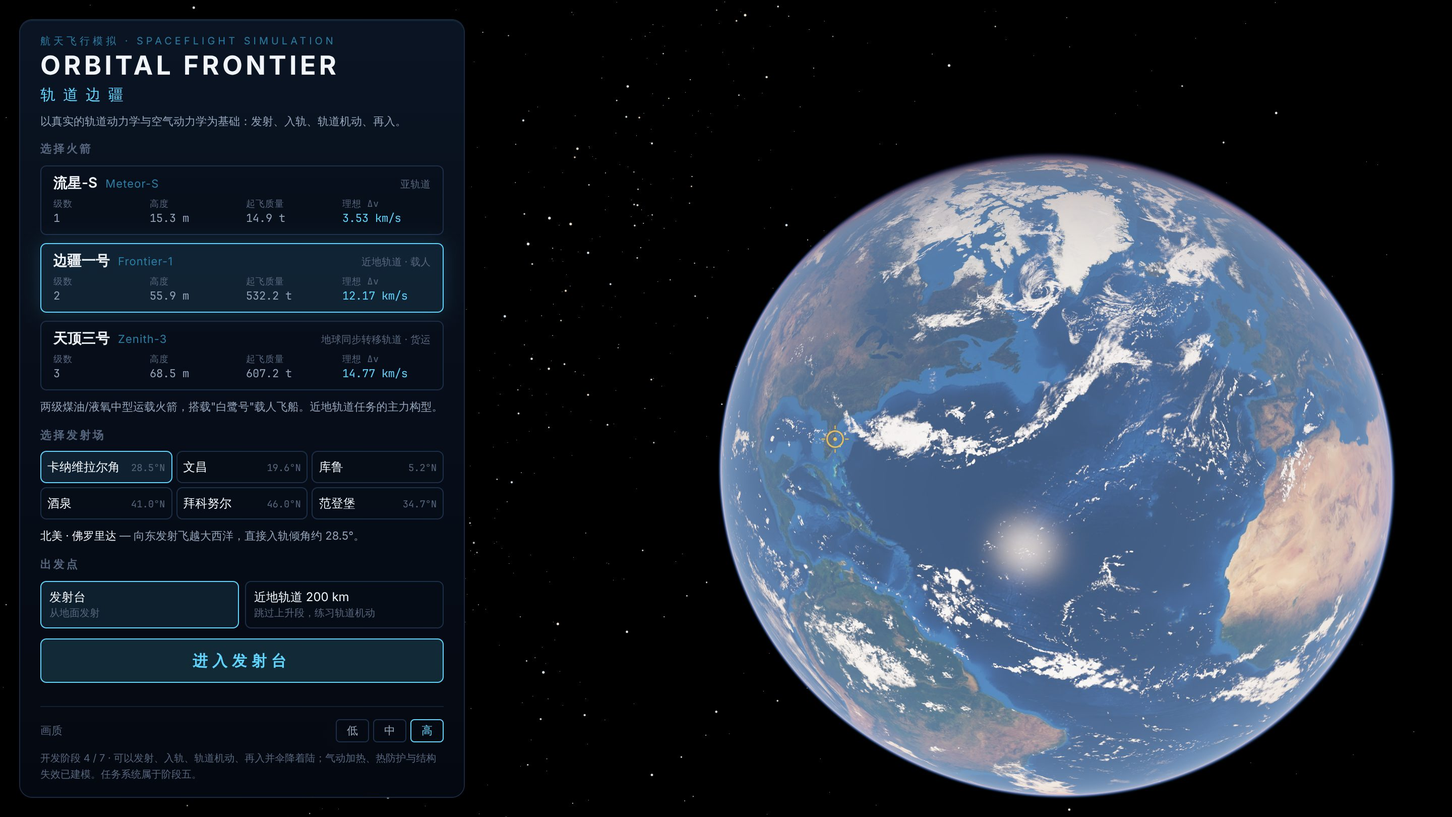
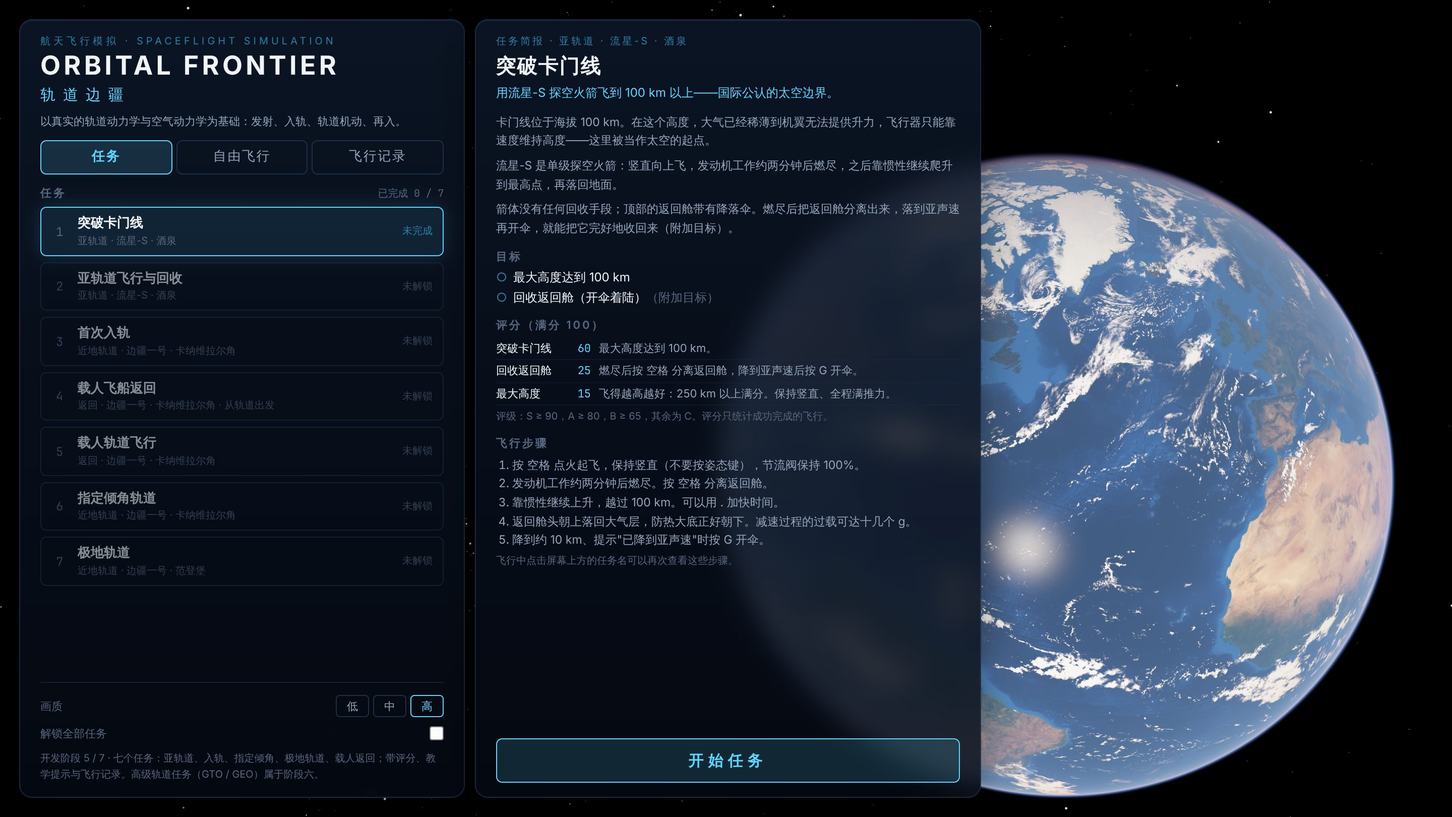
docs: 阶段五文档与配图更新
- README：当前状态、任务系统、主菜单三个页签、配图（任务菜单、任务飞行、任务结果）。
- PHYSICS：17.1 发射方位角与倾角；22.5 七个任务的实测飞行数据。
- TESTING：实测结果（569 项单元测试、26 项端到端测试）、任务系统的测试覆盖、
  已知限制（任务未经真人试玩、入轨与返回类任务没有浏览器端到端测试）。
- ARCHITECTURE：协议表补充 jettisonHeatShield / setBankAngle / 配平再入。

Claude-Session: https://claude.ai/code/session_013f3yviagcHA6DjqTKw1WnN

diff --git a/TESTING.md b/TESTING.md
@@ -22,15 +22,15 @@ npm run check
 
 单元测试与被测模块放在一起（`src/**/*.test.ts`）；端到端测试在 `tests/e2e/`。
 
-## 2. 最近一次实测结果（阶段四完成时）
+## 2. 最近一次实测结果（阶段五完成时）
 
 | 检查 | 结果 |
 | --- | --- |
 | `tsc -b`（strict、`noUncheckedIndexedAccess`） | 通过，0 错误 |
 | ESLint | 通过，0 错误 0 警告 |
-| 单元测试 | **451 项全部通过**（24 个文件，约 20 秒） |
-| 端到端测试 | **21 项全部通过**（Chromium，SwiftShader 软件渲染，约 9 分钟） |
-| 生产构建 | 成功；应用代码 190 kB、React 209 kB、Three + R3F 951 kB、物理 Worker 41 kB（未压缩）；gzip 后合计约 400 kB，另加地球贴图约 3.9 MB |
+| 单元测试 | **569 项全部通过**（31 个文件，约 15–20 秒） |
+| 端到端测试 | **26 项全部通过**（Chromium，SwiftShader 软件渲染，约 13 分钟） |
+| 生产构建 | 成功；应用代码 255 kB、React 209 kB、Three + R3F 951 kB、物理 Worker 44 kB（未压缩）；gzip 后合计约 420 kB，另加地球贴图约 3.9 MB |
 
 测试环境：Linux 容器，4 核 CPU，无 GPU，Node 22，Chromium（Playwright 1.63）。
 
@@ -45,6 +45,8 @@ npm run check
 | `physics/gravity/pointMass.test.ts` | 不同高度的引力加速度；平方反比；GEO 半径处的圆轨道周期等于恒星日 |
 | `physics/ephemeris/ephemeris.test.ts` | 儒略日；GMST 参考值；二分二至点的太阳赤纬；地方正午太阳位于当地子午面（端到端） |
 | `physics/atmosphere/standardAtmosphere.test.ts` | **与 USSA76 表列值对比**（1–80 km 共 11 个高度，T、p、ρ 偏差 < 0.02%）；海平面值；等温层；层间连续；理想气体方程；86 km 处解析段与表列段连续；100/200/400/1000 km 节点；对数线性插值；单调性；上界以上为真空；负高度与 NaN 输入 |
+| `physics/aerodynamics/trim.test.ts` | **配平迎角**：牛顿流球冠合力方向的解析式与对球冠表面的数值积分一致；零迎角合力沿轴线、随迎角单调；大底越平合力越贴近轴线；**阿波罗量级的质心偏移给出约 20° 的配平迎角与约 0.35 的升阻比**；解满足力矩平衡；质心在轴线上时为 0；超出适用范围时取上限 |
+| `physics/orbital/launch.test.ts` | **发射方位角**：向正东发射得到最小倾角（等于纬度）；低于纬度的倾角无法直接到达；向北 / 向南两个方位角对称且代回去得到同样的倾角；卡纳维拉尔角 → 51.6° 惯性方位约 45°、相对地面约 43°；范登堡 → 极地轨道要偏西约 3° |
 | `physics/aerodynamics/drag.test.ts` | 马赫数修正曲线（跨声速峰、连续性、端点）；零迎角 = C_d·A；横流阻力；随迎角单调；动压。**升力**：零迎角/横向/尾部朝前时为零；细长体升力随迎角先增后减；**返回舱大底朝前 20° 迎角时升阻比 0.25–0.36**；阻力与升力是轴向力、法向力的投影（D² + L² = F_A² + F_N²） |
 | `physics/thermodynamics/thermodynamics.test.ts`（30 项） | **Sutton–Graves 与手算一致**、标度关系（v³、√ρ、1/√R_n）；近地轨道再入峰值热流量级；**稀薄流上限**（任何高度不超过 ½ρv³，200 km 轨道约 60 W/m²）、两条曲线在 100–125 km 交接；热壁修正（冷壁≈1、总温时为 0、更热为负）；辐射；热流在三个热区的分配（连续、单调）；集总热容模型：初始升温速率、趋于辐射平衡、**能量守恒（相对误差 < 10⁻⁹，含烧蚀）**、向内传导与回温、气流冷却、表面超限/结构热透/烧穿三种失效、烧蚀速率 = 净热流/有效烧蚀热、**对步长不敏感且大步长下稳定**；热裕度 |
 | `physics/integration/rk4.test.ts` | 匀加速、时变加速度、线性阻力、简谐振动的解析解；圆轨道速度与周期；**0.02 s 步长下近地轨道一圈的能量与角动量漂移 < 10⁻¹¹**；GTO 大椭圆轨道；**四阶收敛**（步长减半误差缩小约 16 倍）；10 圈长期稳定性 |
@@ -62,6 +64,7 @@ npm run check
 | `simulation/startConditions.test.ts` | 从近地轨道开始：哪些火箭可用；六个发射场的初始轨道（圆轨道、倾角 = 纬度）；位于发射场正上方；姿态；剩余推进剂与 Δv 预算一致；滑行一圈后仍在轨 |
 | `simulation/flight.test.ts` | 见下表 |
 | `simulation/reentry.test.ts`（39 项） | 见下表 |
+| `simulation/returnAids.test.ts`（25 项） | **配平再入**：配平迎角由质心偏移决定（白鹭号约 20°，流星-S 的返回舱为 0）；目录数据在模型适用范围内；头部方向的几何（偏离来流恰好一个配平迎角，倾侧 0 / ±90° / 180°）；带着推进级时不可用；**再入全程迎角保持在 180° − 配平迎角（偏差 < 0.3°）、升阻比 0.29–0.33、升力向上**；滚转键改变倾侧角而不打断配平、俯仰键才是手动接管；倾侧角指令限速并走最短路径；开伞后退出。**升力改变结果**：过载 8 g → 3 g 以下、多飞 1000 km 以上；5°、6° 的再入角弹道式解体而配平再入可以承受；升力向下过载解体；倾侧 60° 介于两者之间；左右倾侧使落点对称地横向偏移；各部位热裕度 > 0.45；高于圆轨道速度时升力向上跳出；**轨迹预测与实际航程相差 < 3%**。**抛大底**：发射台上、带着推进级时不能抛；质量、质心、动量守恒、分离体；底部热区换成舱底结构；着陆速度按 √(质量比) 降低；再入前抛掉则舱底烧毁 |
 
 `flight.test.ts`（63 项）按主题：
 
@@ -84,7 +87,7 @@ npm run check
 
 | 主题 | 验证内容 |
 | --- | --- |
-| 升力 | 零迎角无升力；舱顶向天/向地偏 20° 时升阻比约 0.3、方向相反；阻力与公式一致；**升力向上的再入过载从约 9.5 g 降到约 5 g、飞得更远**；升力向下则侧壁过热 |
+| 升力 | 零迎角无升力；舱顶向天/向地偏 20° 时升阻比约 0.3、方向相反；阻力与公式一致；**升力向上的再入过载从约 9.5 g 降到约 5 g、飞得更远**；升力向下则过载解体 |
 | 合理的再入可以返回 | **近地轨道弹道再入安全着陆**（过载 7–10 g、峰值热流 0.35–0.75 MW/m²、烧蚀层剩余 60–95%、落地 5–10 m/s）；流星-S 亚轨道返回；**从 200 km 轨道离轨 → 分离二级 → 逆行 → 开伞的完整流程** |
 | 速度、角度、热防护参数 | 再入角 0.8°–4° 的单调关系（越浅峰值越低、总热量越大）；6° 过载解体；**高于圆轨道速度时跳出**；离轨不足时落点偏远、受热更久；速度 7.8/9.0/10.3 km/s 时热流与烧蚀消耗递增；**11 km/s 烧穿**；烧蚀层 0.4/4/12 kg/m² 的不同结果；曲率半径减到 1/4 热流翻倍；亚轨道级别的防热层承受不了轨道速度 |
 | 热防护不足 | 舱顶朝前、侧向、不分离二级、卫星——各自在哪个热区、什么高度失效；空中解体后状态冻结在解体位置 |
@@ -100,6 +103,18 @@ npm run check
 - `handFlownPilot.ts`：模拟照着提示操作的玩家——每 0.1 s 读一次界面遥测，只按住/松开按键、切换顺行保持、
   每隔几秒把俯仰角改动一个台阶。用来验证"粗糙的手动操作足以入轨"（结果见 PHYSICS.md 22.2）。
 
+### 任务系统
+
+| 文件 | 验证内容 |
+| --- | --- |
+| `missions/missions.test.ts`（34 项） | **判定**：最大高度取累计统计量（采样错过最高点也算数）；附加目标不影响成败、任务等所有目标有结论才结束；入轨要求关机后连续 10 s 满足（点火中不算、重新点火或轨道变化则清零、1000× 下采样间隔很大照样确认）；着陆的必须是已分离的返回舱；烧蚀层最小余量（抛大底后不再更新）；先入轨后返回的组合任务；推进剂耗尽的提前判定；有结论后不再变化、无变化时返回同一对象。**评分**：线性换算的两个方向与边界；评级分数线；各项得分与总分；失败为 0 分 F。**进度**：解锁链、最好成绩、次数、下一个任务。**日志**：条目内容、同一次飞行覆盖、上限。**存档校验**：坏数据被丢弃或回到默认值。**发射引导**：八个方向的按键、左右转向、各任务的引导。**目录自洽**：标识唯一、评分项满分之和为 100、解锁关系无环且可以从头走到尾、目标倾角从发射场可达 |
+| `missions/missionFlights.test.ts`（18 项） | **七个任务都由测试驾驶员飞到有结论**（数据流与运行时相同：物理步 → 快照 → 10 Hz 遥测 → 判定 → 评分），成功与失败路径都有：卡门线（满分 / 不回收 75 分 / 中途关机失败）；亚轨道（300 m/s 时倾斜 10°、15° 成功，竖直也能完成但航程 0 分，倾斜过头到不了 120 km，刚起飞就倾斜 5° 动压解体）；首次入轨（粗糙飞行 A、收节流 S、提前关机失败）；指定倾角与极地轨道（带航向修正成功，不修正分别停在约 47° 与 84°）；载人返回（配平再入 + 抛大底 S、弹道式 B、不分离推进级烧毁）；载人轨道飞行（完整流程；只入轨不返回则任务不结束） |
+| `telemetry/flightRecorder.test.ts` | 飞行记录仪：采样间隔、无效数据被拒绝、记满后隔一个丢一个且间隔加倍、几小时的飞行也被完整覆盖、事件上限、由遥测取样 |
+| `components/hud/missionHints.test.ts`（14 项） | **沿着每类任务的飞行，玩家依次看到的提示**：卡门线（保持竖直、不出现"向东倾斜"与"到远地点点火"）；亚轨道（先等到 300 m/s、再提示倾斜角度、分离后提示逆行保持）；首次入轨（近地点过 140 km 但不到 150 km 时不说"可以关机"、轨道确认中）；指定倾角 / 极地轨道（起飞方向的按键、倾角修正的按键）；轨道不合要求时分别说明近地点、远地点、倾角；返回（逆行保持 → 点火 → 关机分离 → 再入 → 开伞 → 抛大底）。任务界面的文字：目标进度、指标数值、日志显示 |
+
+测试驾驶员（`simulation/testing/`）新增：`HandFlownPilot` 支持八个键盘方向的起飞倾斜与飞行中的倾角修正；
+`SuborbitalPilot`（亚轨道）；`ReturnPilot`（离轨 → 分离 → 配平或逆行 → 开伞 → 抛大底）。它们只读界面遥测、只做键盘能做的操作。
+
 ### 渲染与界面
 
 | 文件 | 验证内容 |
@@ -107,7 +122,7 @@ npm run check
 | `rendering/core/rendering.test.ts` | ECI → 渲染空间映射；相机相对坐标精度；视觉大气模型；相机位姿与过渡；**轨道地图取景**（北侧俯视、距离随远地点变化并有上下限、退化输入）；**地球遮挡判断**（背面、地平线附近、地面上的点） |
 | `rendering/rockets/rocketLayout.test.ts` | 模型尺寸与物理定义一致；每级喷管与尾焰出口数量；级间段归属；整流罩半罩互补；喷管排布不重叠 |
 | `rendering/effects/reentryVisuals.test.ts` | 再入辉光强度由热流决定（低于起始值为零、单调、饱和）；**不是"只看高度"**（60 km 处亚声速无辉光、6.5 km/s 才有；200 km 轨道速度也没有）；颜色连续；高温表面自发光随温度变化；伞衣半径由阻力面积反算 |
-| `components/hud/flightHints.test.ts` | 操作提示：发射台上的各种情形；**沿一次手动入轨飞行，各阶段的提示按正确顺序出现**且没有误报的警告；从轨道出发；亚轨道滑行；**返回全程（离轨 → 分离 → 调整姿态 → 再入 → 开伞 → 着陆）的提示顺序**；超声速时不提示开伞；带迎角穿过大动压区时先警告再折断 |
+| `components/hud/flightHints.test.ts` | 操作提示：发射台上的各种情形；**沿一次手动入轨飞行，各阶段的提示按正确顺序出现**且没有误报的警告；从轨道出发；亚轨道滑行；**返回全程（离轨 → 分离 → 调整姿态 → 再入 → 开伞 → 着陆）的提示顺序**；配平再入与抛大底的提示；再入前抛掉大底的警告；超声速时不提示开伞；等待开伞阶段；无动力返回舱沿弹道上升时提示最高点而不是点火；带迎角穿过大动压区时先警告再折断 |
 | `components/hud/thermalLabels.test.ts` | 热区名称；风险等级；**每一种损毁原因的说明文字**（撞击时指出超出的接地容限与降落伞状态；热失效给出高度、速度、部位、材料；结构失效给出限值） |
 | `game/telemetry/thermalHistory.test.ts` | 热历程环形缓冲：取各热区最大值、最小采样间隔、溢出时丢弃最旧、时间倒退时清空、拒绝无效数值；最危险热区的选取 |
 | `utils/format.test.ts` | 单位切换；压力与任务时间；倒计时与拱点高度；热流、温度（K → °C）、热载荷；无效数值显示为"—" |
@@ -140,6 +155,11 @@ npm run check
 | **完整返回并伞降着陆** | 离轨、分离、逆行保持；再入时热流升到数百 kW/m²、阶段显示"再入大气层"、热防护面板以防热大底为主且读数与物理状态一致；提示"已降到亚声速"后按 `G`；减速伞 → 主伞；**以 5–10 m/s 着陆**；统计：峰值过载 7–10 g、峰值热流 0.35–0.8 MW/m²、表面达到烧蚀温度、烧蚀层剩余 60–95%；结果面板显示"已着陆" |
 | **舱顶朝前再入** | 改成顺行保持后界面先警告"防热大底没有朝前"；在 60–100 km 高度因头部表面过热而损毁；防热大底完好；结果面板显示"表面过热"与原因说明；重新发射后复位 |
 | **超声速开伞** | 50 km 以下回到 1×，按钮提示"现在开伞会被撕毁"；点击后降落伞损毁、按钮禁用、事件记录显示"降落伞被撕毁" |
+| **配平再入与抛大底** | 带着推进级时"配平"与"抛大底"按钮禁用；分离后 `Y` 进入配平模式，迎角收敛到 180° − 配平迎角；`E` / `Q` 改变倾侧角且不打断配平；再入时升阻比 0.27–0.34；主伞张开后提示可以抛大底，`H` 之后质量减少 650 kg、多出一个分离体、底部热区变为舱底结构；以 6.5–7.7 m/s 着陆；全程最大过载 < 5.5 g |
+| **任务菜单** | 默认页签是任务；只有第一个任务开放；简报的目标、评分项、飞行步骤；未解锁的任务不能开始并说明原因；斜向发射任务的方位说明（183°、043°、按键）；飞行记录为空；"解锁全部"后开始"载人飞船返回"：在 200 km 轨道上、任务条与任务提示就位、飞行步骤可展开；没有结论的任务不计入进度；刷新后设置仍在 |
+| **完整的游戏循环** | 从主菜单开始"突破卡门线" → 任务规定的火箭与发射场 → 点火、提示"保持竖直" → 燃尽后分离返回舱 → 越过 100 km 时目标打勾而任务仍在进行 → 落回、开伞 → 着陆：评级 S、100 分、三个评分项、两张曲线图 → 存档里有进度与一条日志 → "下一个任务"直接开始"亚轨道飞行与回收" → 主菜单的任务列表与飞行记录反映进度 → 刷新后仍在 |
+| **任务失败与重飞** | 没到 100 km 就关机 → 坠毁 → 结果面板显示"任务失败""飞行器损毁"、评级 F；不出现"下一个任务"；存档记一次未完成的尝试；"再飞一次"回到同一个任务的发射台 |
+| **自由飞行的记录** | 自由飞行没有任务条；结果面板没有评分；飞行结束后日志里多一条"自由飞行"，任务进度不变 |
 
 ### 浏览器里的完整上升飞行（一次性验证，不在自动化套件中）
 
@@ -161,6 +181,11 @@ npm run check
 阶段四同样在浏览器里用键盘事件飞了几次完整的返回（从 200 km 轨道出发：逆行点火 → 分离二级 → 再入 → 开伞），
 其中的"完整返回并伞降着陆"已经固化为上表中的端到端测试。典型结果：T+约 31 分钟主伞张开，以 7.8 m/s 着陆，
 峰值过载 8.0 g，峰值热流 470 kW/m²，防热大底最高 1227 °C，烧蚀层剩余约 82%，控制台无错误。
+
+阶段五的任务流程同样先用键盘脚本在浏览器里走了一遍（主菜单 → 突破卡门线 → 结果面板 → 飞行记录），
+并据此修正了三条对无动力返回舱不合适的通用提示（"到远地点点火"、"想留在轨道上则顺行点火"、开伞前的"高度不足"）。
+**入轨类、返回类任务没有浏览器端到端测试**——它们需要几分钟的手动飞行，软件渲染下按键时机抖动太大；
+这些任务由单元测试里的测试驾驶员飞完（数据流与运行时相同），结果面板的"继续飞行"也因此没有端到端覆盖。
 
 端到端测试通过只读调试接口 `window.__orbitalFrontier`（`src/app/debug.ts`）读取渲染层与模拟层的实际状态。
 物理线程按墙钟实时运行，与渲染帧率无关，因此软件渲染的低帧率不影响这些测试对飞行过程的验证。
@@ -186,8 +211,9 @@ npm run check
 | 项目所有者的机器（阶段三完成后试飞；具体硬件未记录） | **144 FPS**——很可能受显示器刷新率限制，说明当时有充足的余量 |
 | 本开发环境（无 GPU，SwiftShader 软件光栅化，1280×720） | 约 2.3–2.6 FPS（发射台近景；阶段三与阶段四相同） |
 
-本开发环境的数字不能代表任何真实显卡上的表现，只用来做前后对比。阶段四新增的再入辉光、降落伞与热防护面板
-**还没有在真实 GPU 上实测**（实机数据来自阶段三）。
+本开发环境的数字不能代表任何真实显卡上的表现，只用来做前后对比。项目所有者在阶段四完成后再次试飞，反馈"帧率很稳"
+（没有给出具体数字）。阶段五新增的任务界面（任务条、结果面板的两张曲线图）**还没有在真实 GPU 上实测**；
+曲线图用 CPU 画布、只在结果出现时画一次，任务判定每秒约 10 次、每次几十次浮点比较。
 
 **阶段四开发中发现并修复的一个性能问题**（如实记录）：热防护面板的曲线最初用普通的 2D 画布每秒重画 10 次。
 在这个没有显卡的环境里，GPU 加速的 2D 画布与两个 WebGL 画面争用同一个软件光栅化通道，
@@ -209,14 +235,17 @@ npm run check
 
 | 问题 | 影响 | 计划 |
 | --- | --- | --- |
-| 阶段四的新内容没有实机性能数据 | 再入辉光、降落伞、热防护面板在真实 GPU 上的帧率未知（阶段三实机为 144 FPS） | 需要你在实机上确认 |
-| 升力式再入只能手动保持迎角 | 逆行保持给出弹道式再入（约 8 g）；想降低过载要手动把舱顶向天偏并不断修正 | 视反馈加入"保持配平迎角"的指向模式 |
-| 没有乘员过载耐受的判定 | 12 g 的再入也算"安全着陆"（结构限值是 14 g） | 阶段五作为评分项 |
+| 任务与评分线没有真人试玩 | 七个任务只由程序驾驶员飞过；评分线按它们的成绩标定，可能偏松或偏紧 | 需要你的试玩反馈 |
+| 入轨类、返回类任务没有浏览器端到端测试 | 由单元测试里的测试驾驶员覆盖；结果面板的"继续飞行"没有端到端测试 | 有 GPU 的测试环境下可以补 |
+| 斜向发射要"斜着按" | 没有滚转程序：向东北飞时压低头部是 `W + D`，修正倾角是 `W + A` / `S + D` | 视反馈加入滚转程序 |
+| 配平再入不是再入制导 | 倾侧角固定不变；高于圆轨道速度的再入（10 km/s 以上）升力向上会跳出、向下会过载，需要手动调整，没有验证过能否成功 | 阶段七（自动驾驶） |
+| 没有地面轨迹 | 极地轨道任务只能看倾角读数，看不到星下点轨迹 | 阶段六 |
+| 乘员过载只是评分项 | 12 g 的再入仍算"安全着陆"（结构限值 14 g），只是过载一项得 0 分 | 由你决定是否改成失败条件 |
 | 没有激波层辐射加热 | 10 km/s 以上的再入热流偏低，高速再入的结果偏乐观 | 阶段六 |
 | 热防护参数是模型标定值 | 烧蚀层面密度、材料限值不是实测数据；烧蚀掉的质量不从飞行器质量中扣除 | 保持现状并如实说明 |
 | 空中解体没有画面，残骸不再模拟 | 飞行器直接消失，由结果面板说明原因 | 后续完善 |
 | 被抛掉的箭体不会烧毁 | 分离体只做弹道飞行，没有加热与解体 | 后续完善 |
-| 返回流程没有真人试玩 | 阶段三的发射与入轨已由项目所有者试飞（反馈手感良好）；阶段四的离轨、再入、开伞只由测试驾驶员与浏览器脚本验证 | 需要你的试飞反馈 |
+| 配平再入、抛大底没有真人试玩 | 阶段三、四的内容已由项目所有者试飞（反馈手感良好、帧率稳定）；之后追加的配平再入与抛大底只由测试驾驶员与浏览器脚本验证 | 需要你的试飞反馈 |
 | 从发射台起飞后导航球的地平线是竖的 | 箭体没有滚转程序：向东倾斜后俯仰要用 A/D 控制，或先手动滚转 90° | 视反馈加入自动滚转 |
 | 高像素密度屏幕只在软件渲染下看过静态画面 | 2× 像素比下标记与线宽已按 CSS 像素修正；真实设备上的观感与帧率未验证 | 实机确认 |
 | 在轨滑行逐步积分，最高 1000× | 近地轨道一圈约 5 秒可以接受；GEO 一圈需要 86 秒 | 阶段六接入解析传播 |
@@ -232,11 +261,11 @@ npm run check
 | 夜间发射场没有照明 | 夜里火箭只有微弱轮廓（尾焰会照亮周围） | 阶段七 |
 | 大气渲染为单次散射 | 暮光区偏暗、大气边缘低层偏红 | 可选的多次散射近似 |
 | 控制台有 `THREE.Clock` 弃用警告 | 无功能影响（来自 React Three Fiber 内部） | 等待上游更新 |
-| 端到端测试在软件渲染下较慢（全套约 10 分钟），且对机器负载敏感 | 同时运行其他占满 CPU 的任务时，涉及时序的几项会失败 | 单独运行 |
+| 端到端测试在软件渲染下较慢（全套约 13 分钟），且对机器负载敏感 | 同时运行其他占满 CPU 的任务时，涉及时序的几项会失败 | 单独运行 |
 
 ## 7. 后续阶段需要补充的测试（尚不存在）
 
-- 任务判定与评分、任务进度存档（阶段五）
-- 机动节点、解析传播接入状态推进后的连续性、GTO/GEO 任务、激波层辐射加热（阶段六）
+- 入轨类、返回类任务的浏览器端到端测试；结果面板"继续飞行"的端到端测试
+- 机动节点、解析传播接入状态推进后的连续性、GTO/GEO 任务、地面轨迹、激波层辐射加热（阶段六）
 - 再入辉光、降落伞、轨道地图画面的图像对比测试（需要有 GPU 的稳定渲染环境）
 - 真实 GPU 上的性能基准（帧时间分布，而不只是平均帧率——这次的卡顿问题说明平均值不够）

diff --git a/README.md b/README.md
@@ -3,14 +3,19 @@
 一款运行在浏览器里的火箭发射与轨道飞行模拟游戏。目标是以真实的轨道动力学、空气动力学和简化热物理为基础，
 让玩家从地球表面发射火箭，完成亚轨道、近地轨道、极地轨道、地球同步轨道与再入返回任务。
 
-> **当前状态：开发阶段 4 / 7 已完成（大气与热防护）。**
-> 现在可以完成一次完整的飞行：点火起飞、入轨、轨道机动、离轨、再入大气层、开伞着陆。
-> 再入时的气动加热、防热层烧蚀、过载与动压都由物理模型计算：姿态不对、角度太陡、速度太快、忘了开伞，各有各的后果，
-> 结果面板会说明原因。飞行轨迹完全由物理计算决定（引力 + 推力 + 气动力，RK4 积分）。
-> **尚未实现**：任务系统与评分（阶段五）、机动节点与 GTO/GEO（阶段六）、火箭设计与自动驾驶（阶段七）。
+> **当前状态：开发阶段 5 / 7 已完成（任务系统）。**
+> 现在有一个完整的游戏循环：选择任务 → 发射 → 完成目标 → 评分 → 存档 → 解锁下一个任务。
+> 七个任务：突破卡门线、亚轨道飞行与回收、首次入轨、载人飞船返回、载人轨道飞行、指定倾角轨道、极地轨道。
+> 飞行轨迹完全由物理计算决定（引力 + 推力 + 气动力，RK4 积分）；再入时的气动加热、防热层烧蚀、过载与动压都由物理模型计算，
+> 任务的成败与评分只读取这些物理结果。
+> **尚未实现**：机动节点与 GTO/GEO（阶段六）、火箭设计、自动驾驶与物理难度（阶段七）。
 > 各功能的真实完成情况见 [ROADMAP.md](./ROADMAP.md)。
 
-![主菜单](./docs/screenshots/main-menu.jpg)
+![主菜单：任务列表与任务简报](./docs/screenshots/main-menu.jpg)
+
+| 任务飞行：屏幕上方是任务目标与提示 | 任务结果：评级、各项得分与飞行记录曲线 |
+| --- | --- |
+| ![任务飞行](./docs/screenshots/mission-flight.jpg) | ![任务结果](./docs/screenshots/mission-result.jpg) |
 
 | 发射台 | 起飞 | 重力转弯 |
 | --- | --- | --- |
@@ -56,6 +61,15 @@
 - 时间倍率 1×–1000×，在发动机工作、操纵、稠密大气内自动受限
 - 物理运行在 Web Worker 中，渲染在快照之间插值
 
+- 发射方位角与轨道倾角的关系（含地球自转修正）：卡纳维拉尔角 → 51.6° 要飞向 043°，范登堡 → 极地轨道要飞向 183°
+
+**任务系统**（纯逻辑，只读遥测、统计与飞行结果）
+
+- 七个任务，三类目标：达到高度、入轨（关机后连续 10 秒满足近/远地点与倾角要求）、返回舱安全着陆；附加目标
+- 评分：每个任务 3–5 项（轨道圆度、倾角精度、推进剂余量、乘员过载、防热大底余量、着陆速度、航程……），满分 100，评级 S / A / B / C / F
+- 任务简报、飞行步骤、随任务变化的操作提示；任务进度、解锁与飞行日志保存在浏览器里
+- 飞行记录仪：高度、速度、过载、热流随时间的曲线
+
 **飞行器**：三型数据驱动的火箭——质量、质心、推重比、Δv、三维模型都由同一份参数生成
 
 | 火箭 | 构型 | 自动化测试中的表现 |
@@ -69,12 +83,14 @@
 轨道地图（当前轨道、预测轨迹、远/近地点、预计落点，被地球正确遮挡）、
 由热流驱动的再入辉光、随表面温度发光的防热大底、降落伞
 
-**界面**：主菜单（火箭、发射场、出发点）、飞行仪表（高度/速度/过载/动压/马赫数/推力/Δv、轨道参数）、
-热防护监控面板（热流、表面/内部温度、热载荷、烧蚀层余量、风险、时间曲线）、导航球与指向模式、
-节流阀、分级与开伞控制、覆盖发射到着陆全程的操作提示、事件记录、说明失败原因的飞行结果面板、
-本地存档（所选火箭、发射场、画质）
+**界面**：主菜单（任务列表与简报、自由飞行、飞行记录）、飞行仪表（高度/速度/过载/动压/马赫数/推力/Δv、轨道参数）、
+任务条（目标与当前读数）、热防护监控面板（热流、表面/内部温度、热载荷、烧蚀层余量、风险、时间曲线）、导航球与指向模式、
+节流阀、分级、开伞与抛大底控制、覆盖发射到着陆全程的操作提示、事件记录、
+结果面板（评级与各项得分、失败原因、统计数据、飞行记录曲线）、
+本地存档（任务进度、飞行日志、所选火箭、发射场、画质）
 
-**测试**：451 项单元测试（含从发射台到入轨的完整飞行、轨道机动、各种再入条件下的结果）+ 21 项浏览器端到端测试
+**测试**：569 项单元测试（含从发射台到入轨的完整飞行、轨道机动、各种再入条件下的结果、七个任务的成功与失败路径）
++ 26 项浏览器端到端测试（含从主菜单选任务到拿到评分的完整循环）
 
 ## 运行
 
@@ -113,11 +129,19 @@ npx playwright install chromium
 
 `npm run build` 的产物是纯静态文件，使用相对路径（`base: './'`），可直接部署到 Vercel、Netlify、
 GitHub Pages 或任何静态托管服务，无需后端。
+仓库里的 `.github/workflows/deploy.yml` 会在推送 `feature/001` 分支时自动构建并发布到 GitHub Pages。
 
 ## 操作
 
-**主菜单**：选择火箭、发射场与出发点（发射台，或直接从 200 km 近地轨道开始），点击「进入发射台 / 进入轨道」。
-拖动画面可以旋转地球。
+**主菜单**有三个页签：
+
+- **任务**：左边是任务列表（未解锁 / 未完成 / 评级），右边是所选任务的简报——背景、目标、评分项、飞行步骤。
+  点击「开始任务」。任务按顺序解锁；页面底部有"解锁全部任务"开关。
+- **自由飞行**：自己选择火箭、发射场与出发点（发射台，或直接从 200 km 近地轨道开始），没有目标与评分。
+- **飞行记录**：最近的飞行与成绩。
+
+拖动画面可以旋转地球。任务飞行时屏幕上方显示各目标的完成情况；点击任务名可以再看一遍飞行步骤。
+飞行结束（或任务有了结论）时出现结果面板：评级、各项得分、统计数据与飞行记录曲线。
 
 **飞行**
 
@@ -195,13 +219,14 @@ GitHub Pages 或任何静态托管服务，无需后端。
 ```
 src/
   game/                 物理与模拟（纯 TypeScript，不依赖 React / Three）
-    physics/              常量、数学、参考系、引力、星历、大气、气动力、推进、积分、姿态与指向、轨道、气动加热与热防护
+    physics/              常量、数学、参考系、引力、星历、大气、气动力与配平、推进、积分、姿态与指向、轨道与发射方位、气动加热与热防护
     vehicles/             飞行器类型定义、性能分析、构型相关计算
     simulation/           模拟器、固定步长时钟、消息协议、快照插值、轨迹预测、起始条件、测试用驾驶员
-    telemetry/            遥测量推导
-  data/                 游戏内容数据：火箭目录、发射场、表面材料
+    telemetry/            遥测量推导、热历程、飞行记录仪
+    missions/             任务判定、评分、进度与解锁、飞行日志、发射引导（只读遥测的纯逻辑）
+  data/                 游戏内容数据：火箭目录、发射场、表面材料、任务目录
   workers/              物理线程入口与主线程客户端
-  stores/               Zustand 状态与模拟运行时（连接物理线程、UI、渲染）
+  stores/               Zustand 状态、生涯存档与模拟运行时（连接物理线程、任务判定、UI、渲染）
   rendering/            三维渲染（React Three Fiber）
     core/                 渲染空间转换、每帧状态、帧驱动
     earth/                行星着色器、视觉大气模型、贴图
@@ -211,7 +236,7 @@ src/
     cameras/              摄像机位姿计算与控制
     orbital-map/          轨道地图：轨道线、预测轨迹、拱点与落点标记
     effects/              再入辉光、降落伞，以及"物理量 → 外观"的映射函数
-  components/           DOM 界面：主菜单、飞行 HUD（导航球、指向模式、热防护面板、地图图例、操作提示）、通用控件
+  components/           DOM 界面：主菜单（任务、自由飞行、飞行记录）、飞行 HUD（任务条、导航球、指向模式、热防护面板、地图图例、操作提示、结果面板）、通用控件
   app/                  应用根组件
   utils/                显示格式化
 tests/e2e/              Playwright 端到端测试

diff --git a/ARCHITECTURE.md b/ARCHITECTURE.md
@@ -1,6 +1,6 @@
 # 系统架构
 
-本文档描述 Orbital Frontier 当前（阶段四完成时）的实际架构，以及它为后续阶段预留的扩展方式。
+本文档描述 Orbital Frontier 当前（阶段五完成时）的实际架构，以及它为后续阶段预留的扩展方式。
 
 ## 1. 设计原则
 
@@ -104,10 +104,12 @@
 | `setTimeWarp { warp }` | 设置时间倍率（1, 2, 5, 10, 100, 1000）；超过当前允许上限时被钳制 |
 | `setThrottle { throttle }` | 节流指令 0–1 |
 | `setAttitudeInput { input }` | 姿态操纵输入（俯仰 / 偏航 / 滚转，各 −1…1） |
-| `setAttitudeMode { mode }` | 自动指向模式：手动 / 顺行 / 逆行 / 法向 / 反法向 / 径向外 / 径向内 |
+| `setAttitudeMode { mode }` | 自动指向模式：手动 / 顺行 / 逆行 / 法向 / 反法向 / 径向外 / 径向内 / 配平再入 |
 | `stage` | 飞行序列的下一步：点火 → 分离当前级并点燃下一级 → 载荷发动机点火；当前级有推进剂但未启用时先启用它 |
 | `jettisonFairing` | 抛整流罩 |
 | `deployParachute` | 开伞：减速伞 → 主伞（只对已与推进级分离的返回舱有效） |
+| `jettisonHeatShield` | 抛掉防热大底（只对已与推进级分离的返回舱有效） |
+| `setBankAngle` | 配平再入的倾侧角指令 [rad]：0 升力向上，正值向右，π 升力向下 |
 | `dispose` | 结束会话 |
 
 模拟器 → 主线程（`SimEvent`）：
